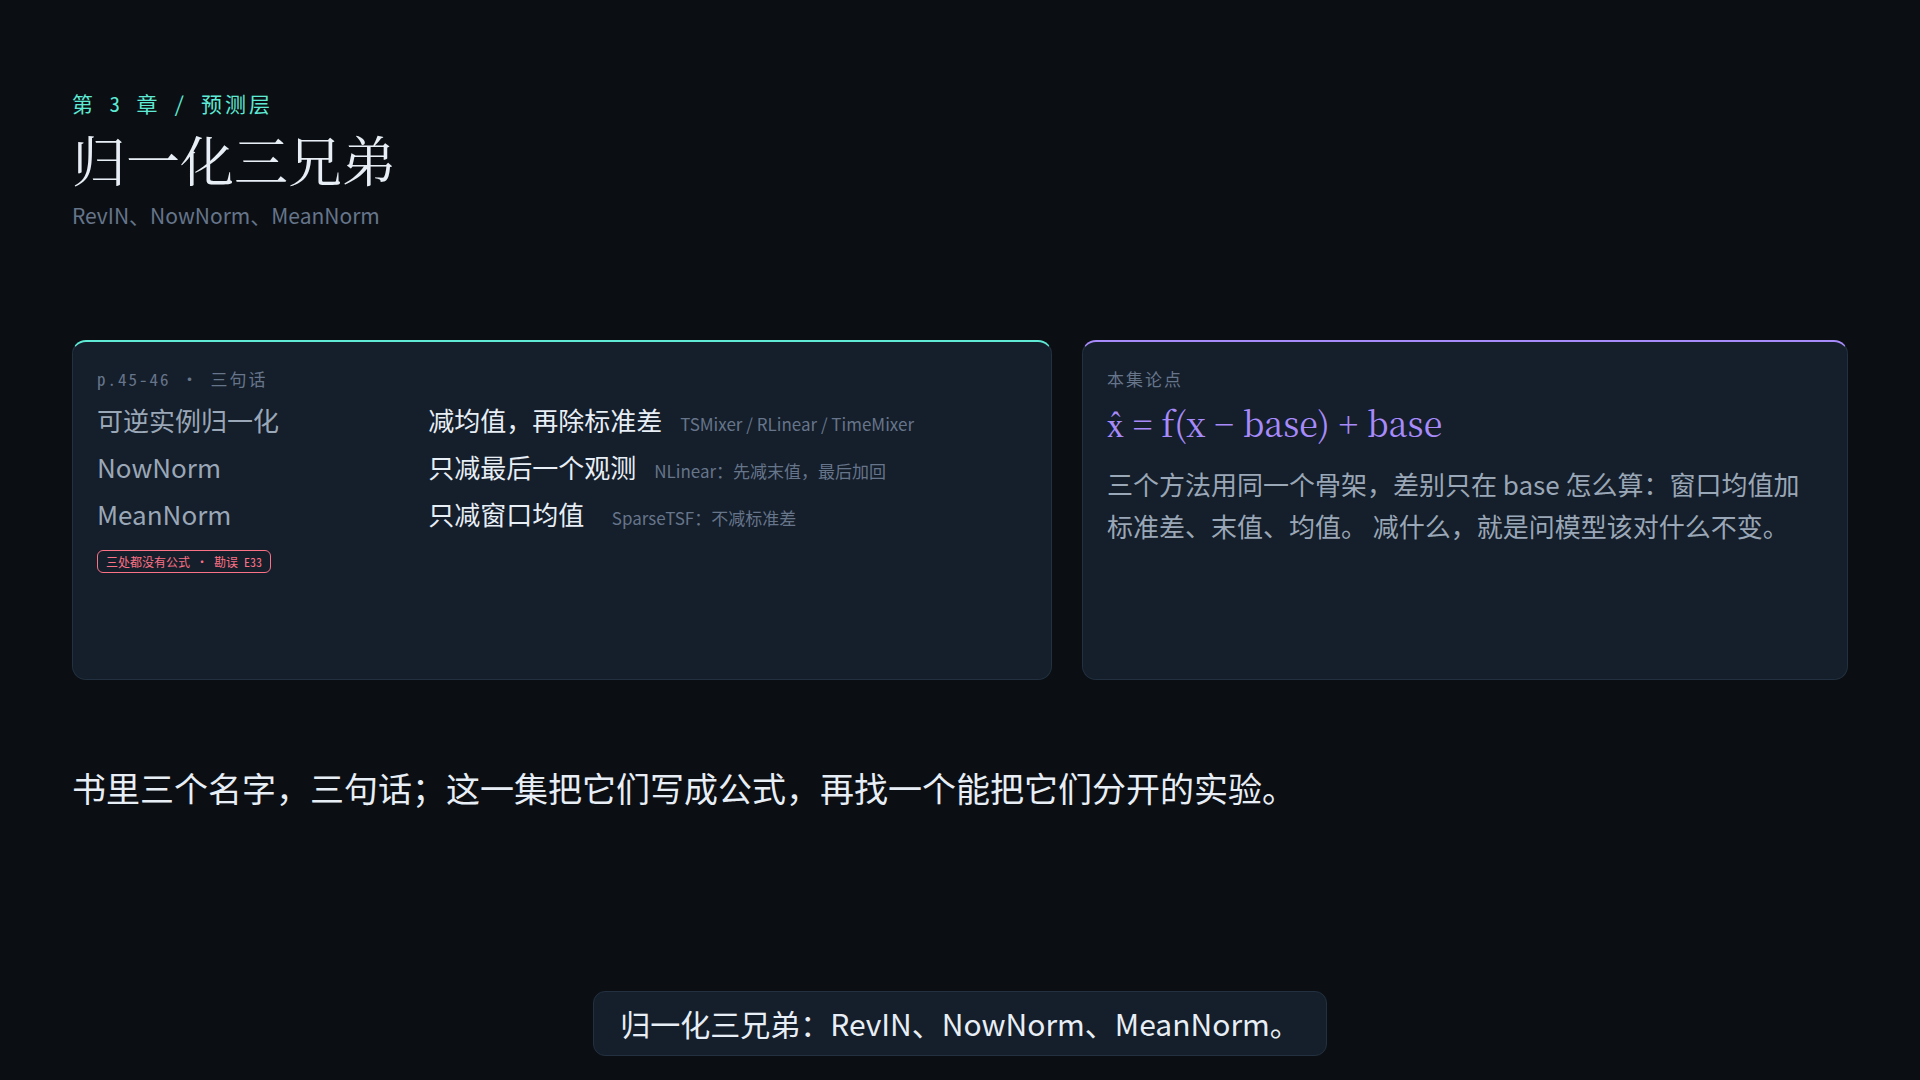
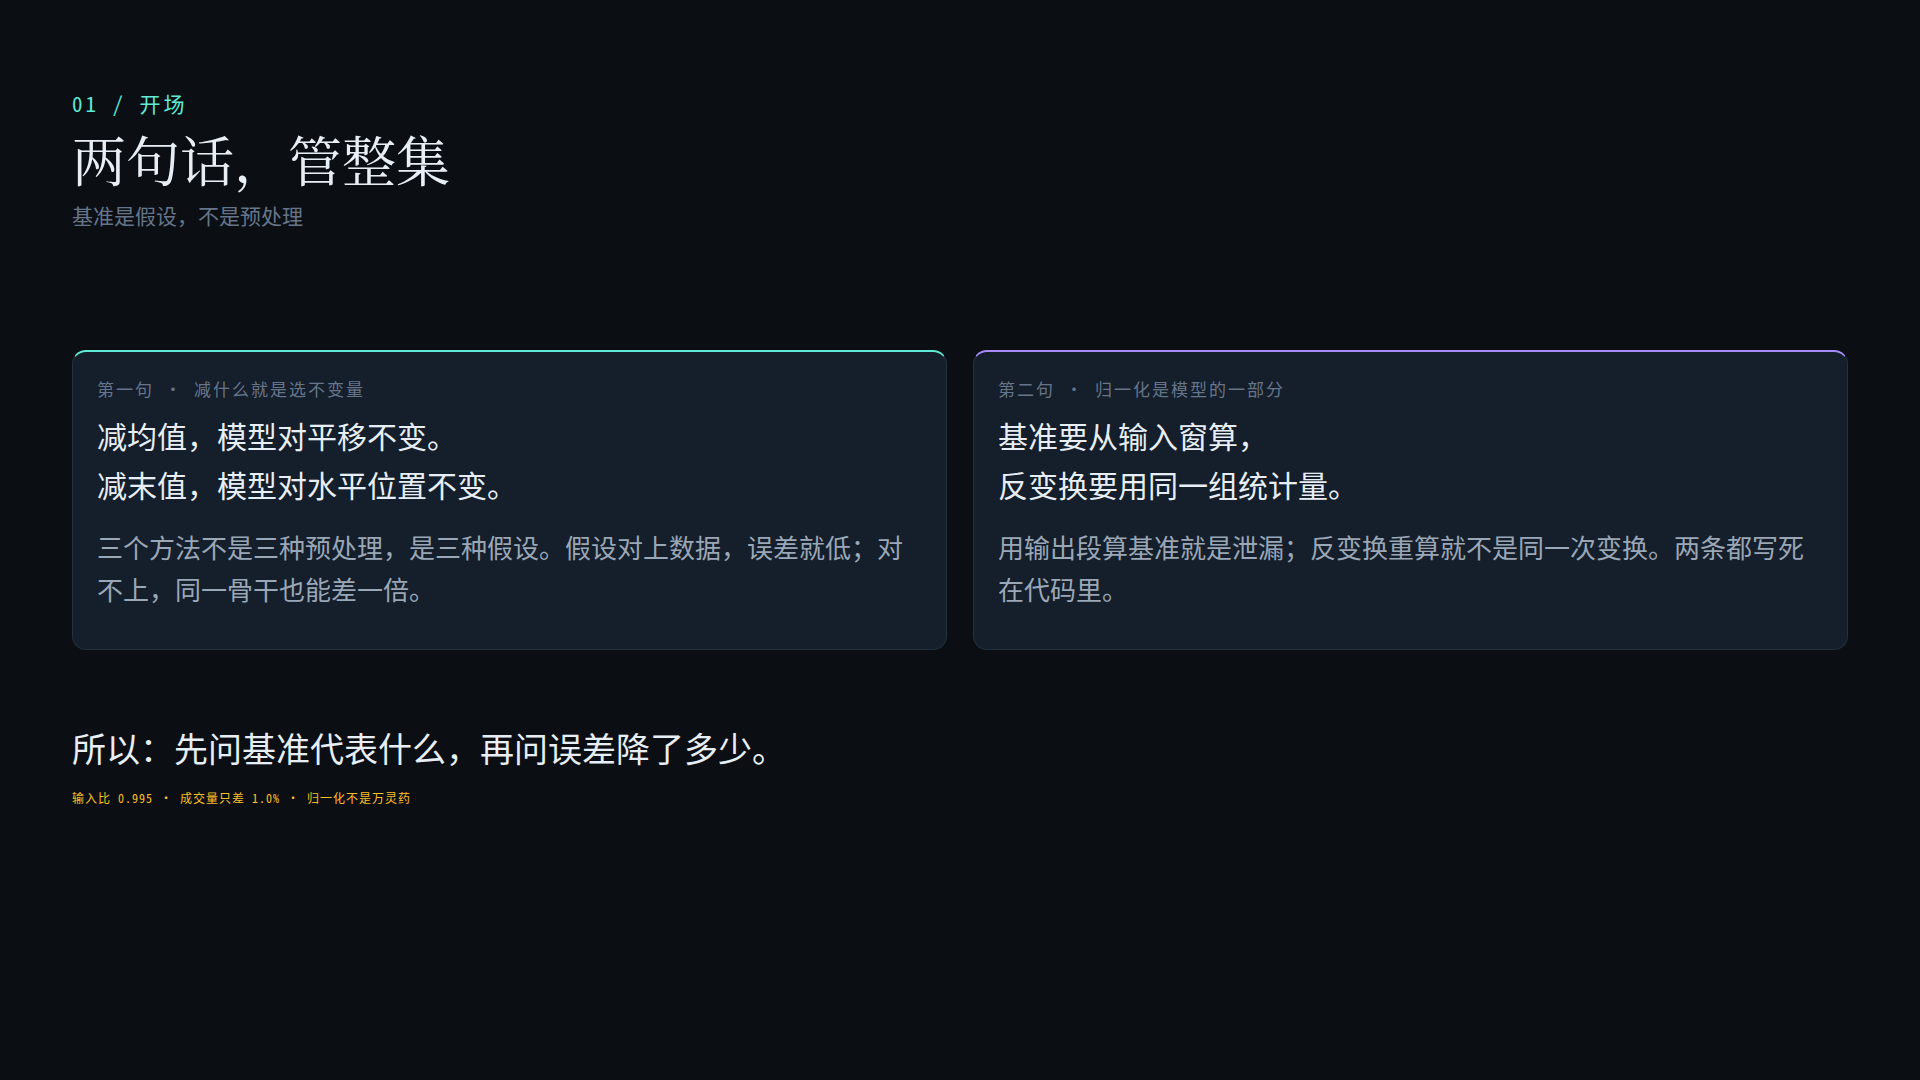
fix(ep18): keep the reversible-instance caption on one line
The three-model line was 42 characters and wrapped a lone full stop onto a
second line; speak the group instead of the list.

diff --git a/series/tsint/episodes/18-norm-revin-now-mean/src/script.ts b/series/tsint/episodes/18-norm-revin-now-mean/src/script.ts
@@ -90,7 +90,7 @@ const SPEC: SceneSpec[] = [
       "可逆的时候，用哪一组统计量反变换。",
       "五个问题，书里一个都没答。",
       "表三点一里，六个模型的归一化各不相同。",
-      "TSMixer、RLinear、TimeMixer，用可逆实例归一化。",
+      "前三个模型，用可逆实例归一化。",
       "NLinear 用 NowNorm。",
       "SparseTSF 用 MeanNorm。",
       "DLinear 什么都不用。",
